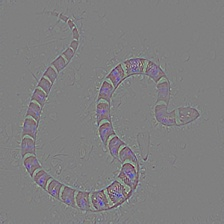
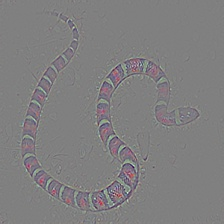
Added class specific generation

diff --git a/src/class_specific_generative_cnn.py b/src/class_specific_generative_cnn.py
@@ -1,0 +1,89 @@
+"""
+Created on Thu Oct 26 14:19:44 2017
+
+@author: Utku Ozbulak - github.com/utkuozbulak
+"""
+import os
+import copy
+import cv2
+import numpy as np
+
+from torch.optim import SGD
+from torchvision import models
+
+from misc_functions import preprocess_image
+
+
+def recreate_image(im_as_var, reverse_mean, reverse_std):
+    """
+        Recreates images from a torch variable, sort of reverse preprocessing
+
+    Args:
+        im_as_var (torch variable): Image to recreate
+        reverse_mean (list): Original mean list multiplied by -1
+        reverse_std (list): Original std list to the power -1 (1/org)
+
+    returns:
+        recreated_im (numpy arr): Recreated image in array
+    """
+
+    recreated_im = copy.copy(im_as_var.data.numpy()[0])
+    for c in range(3):
+        recreated_im[c] /= reverse_std[c]
+        recreated_im[c] -= reverse_mean[c]
+    recreated_im[recreated_im > 1] = 1
+    recreated_im[recreated_im < 0] = 0
+    recreated_im *= 255
+
+    recreated_im = np.uint8(recreated_im).transpose(1, 2, 0)
+    # Convert RBG to GBR
+    recreated_im = recreated_im[..., ::-1]
+    return recreated_im
+
+
+class ClassSpecificImageGeneration():
+    """
+        Produces an image that maximizes a certain class with gradient ascent
+    """
+    def __init__(self, model, target_class):
+        self.mean = [-0.485, -0.456, -0.406]
+        self.std = [1/0.229, 1/0.224, 1/0.225]
+        self.model = model
+        self.target_class = target_class
+        # Generate a random image
+        self.created_image = np.uint8(np.random.uniform(0, 255, (224, 224, 3)))
+        cv2.imwrite('generated/initial_image.jpg', self.created_image)
+        # Create the folder to export images if not exists
+        if not os.path.exists('generated'):
+            os.makedirs('generated')
+
+    def generate(self):
+        initial_learning_rate = 6
+        for i in range(1, 200):
+            # Process image, return variable
+            self.processed_image = preprocess_image(self.created_image)
+            # Define optimizer for the image
+            optimizer = SGD([self.processed_image], lr=initial_learning_rate)
+            # Forward
+            output = self.model(self.processed_image)
+            # Target specific class
+            class_loss = -output[0, self.target_class]
+            print('Iteration:', str(i), 'Loss', "{0:.2f}".format(class_loss.data.numpy()[0]))
+            # Zero grads
+            self.model.zero_grad()
+            # Backward
+            class_loss.backward()
+            # Update image
+            optimizer.step()
+            # Recreate image
+            self.created_image = recreate_image(self.processed_image, self.mean, self.std)
+            # Save image
+            cv2.imwrite('generated/iteration_'+str(i)+'.jpg', self.created_image)
+        return self.processed_image
+
+
+if __name__ == '__main__':
+    target_example = 130  # Flamingo
+    pretrained_model = models.alexnet(pretrained=True)
+    cig = ClassSpecificImageGeneration(pretrained_model, target_example)
+    cig.generate()

diff --git a/src/misc_functions.py b/src/misc_functions.py
@@ -42,6 +42,8 @@ def save_gradient_images(gradient, file_name):
     gradient /= gradient.max()
     gradient = np.uint8(gradient * 255).transpose(1, 2, 0)
     path_to_file = os.path.join('../results', file_name + '.jpg')
+    # Convert RBG to GBR
+    gradient = gradient[..., ::-1]
     cv2.imwrite(path_to_file, gradient)
 
 
